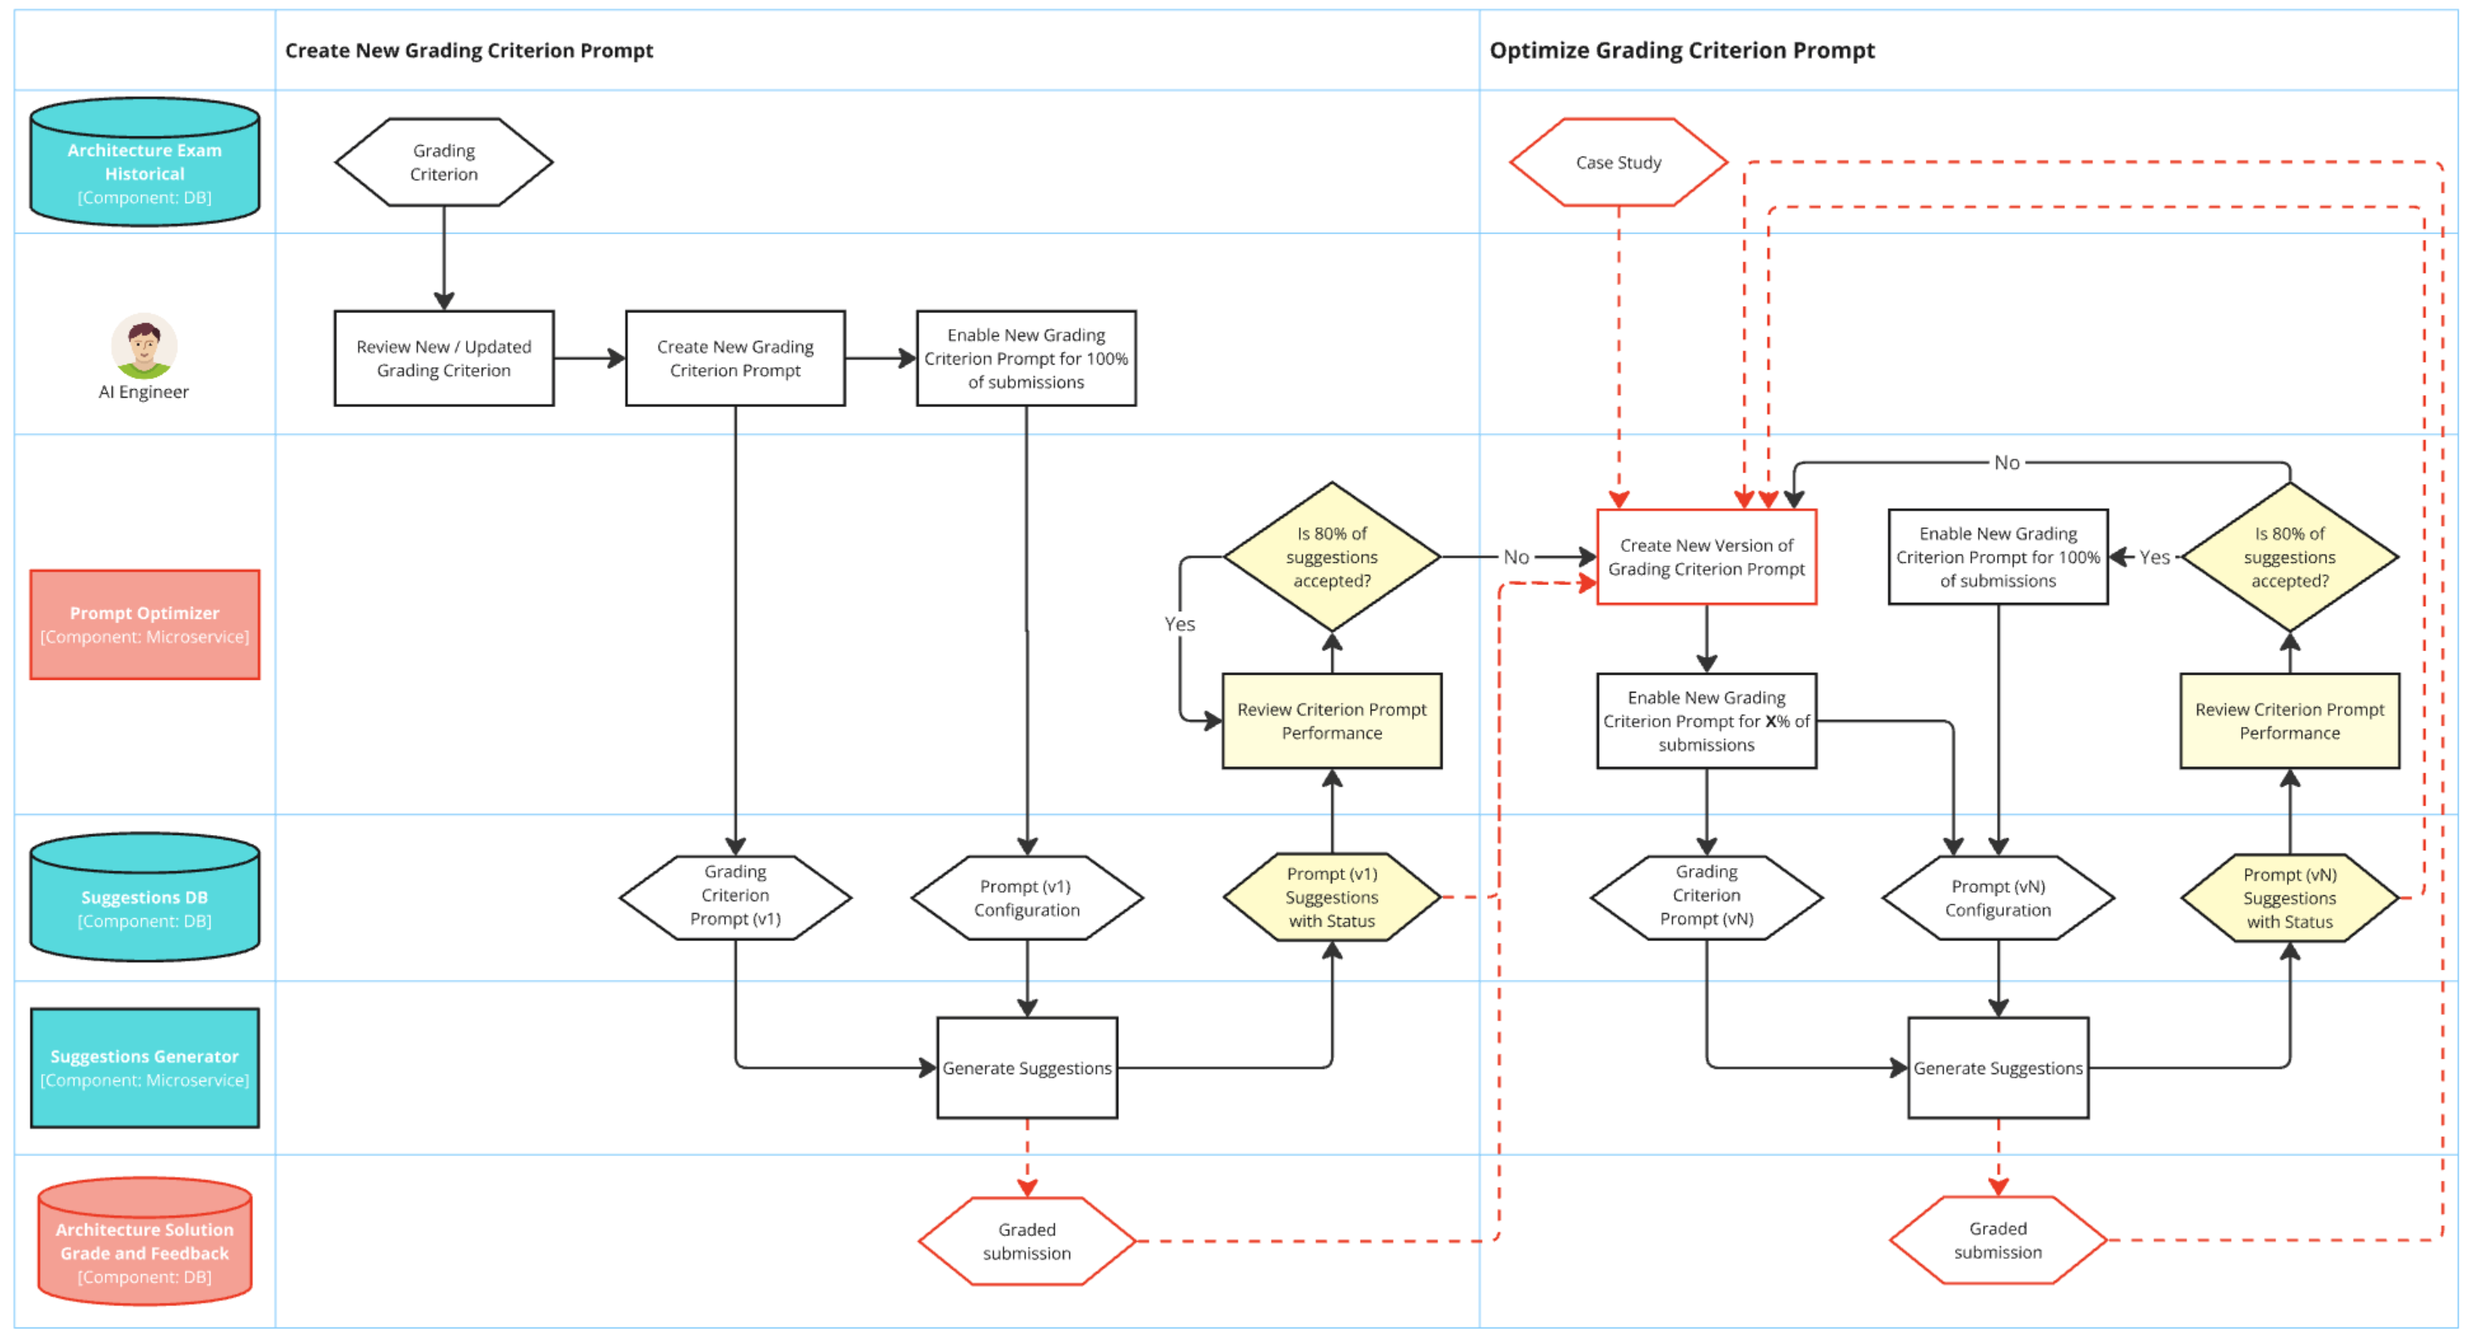
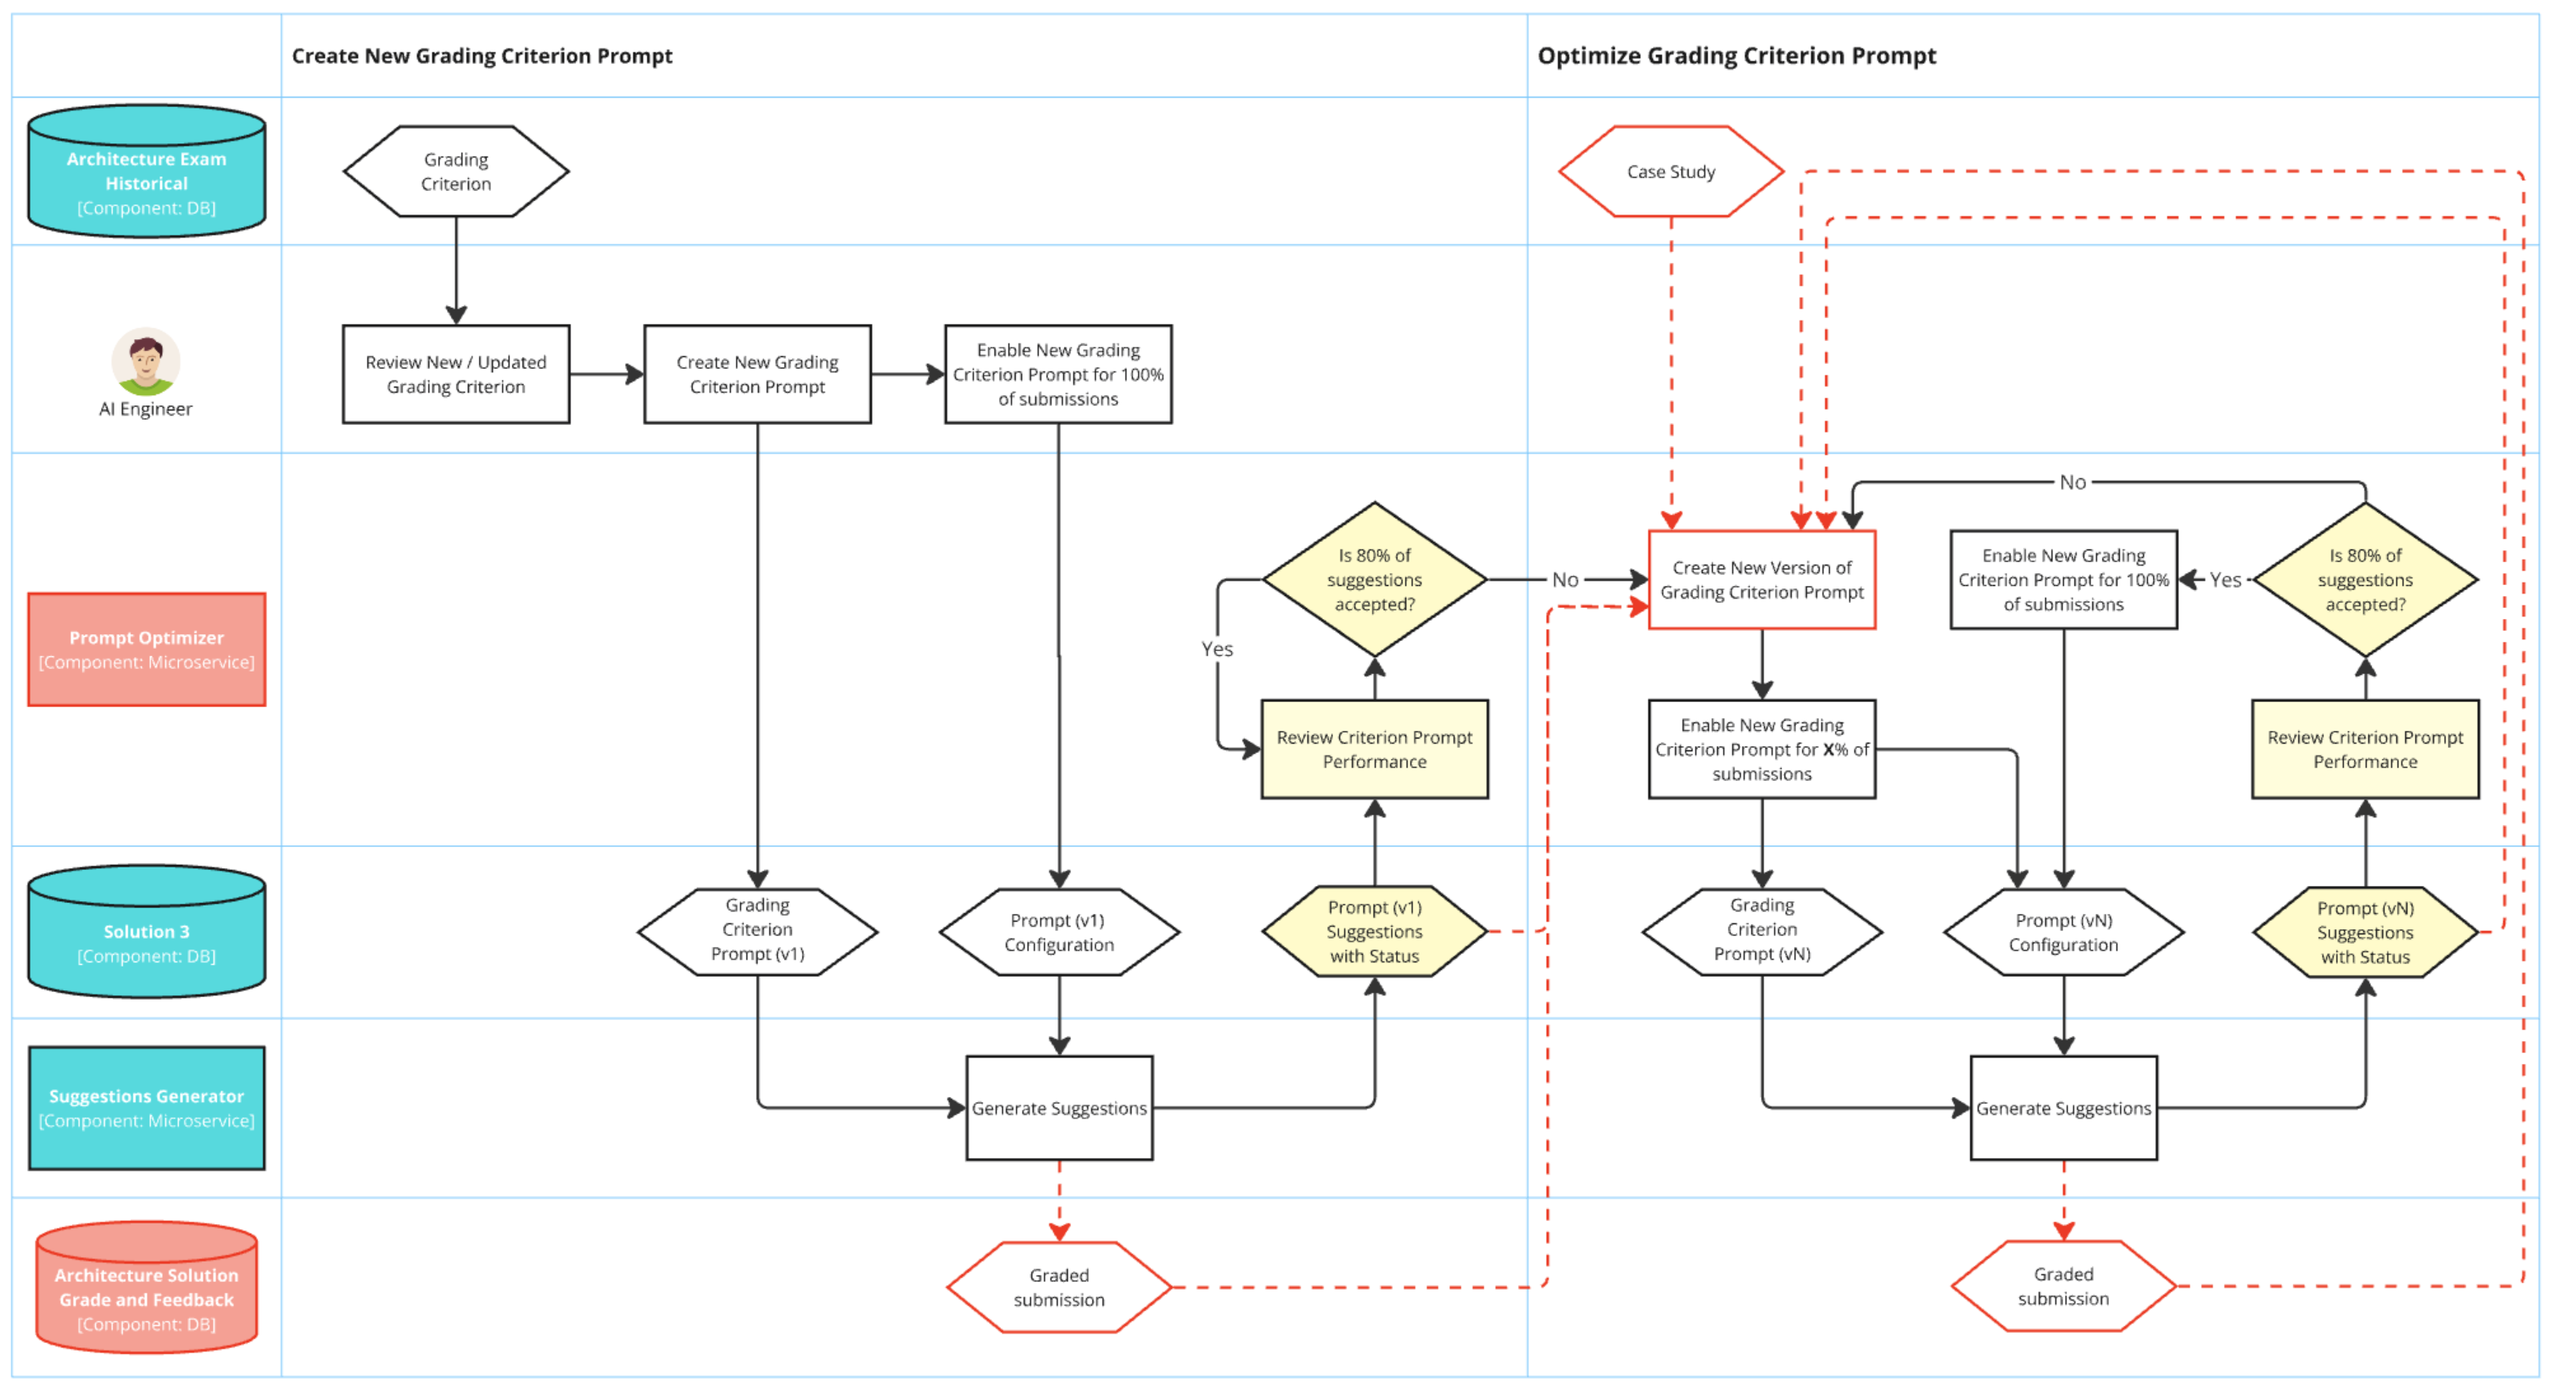
improved solution 3b

diff --git a/README.md b/README.md
@@ -41,7 +41,7 @@
   - [Aptitude Test: Solution 1b - Semantic search](#aptitude-test-solution-1b---semantic-search)
   - [Aptitude Test: Solution 2](#aptitude-test-solution-2)
   - [Architecture Exam: Solution 3a - Direct Prompting](#architecture-exam-solution-3a---direct-prompting)
-  - [Architecture Exam: Solution 3b - Direct Prompting](#architecture-exam-solution-3b---direct-prompting)
+  - [Architecture Exam: Solution 3b - Automatic Prompt Optimization](#architecture-exam-solution-3b---automatic-prompt-optimization)
   - [Architecture Exam: Solution 4](#architecture-exam-solution-4)
   - [Appeal Process, Anomaly Detection and Analytics](#appeal-process-anomaly-detection-and-analytics)
 - [Final Words](#final-words)
@@ -912,10 +912,10 @@ This diagram illustrates the workflow of generating grading and feedback suggest
 
 This workflow integrates AI and human expertise, ensuring the grading process is efficient while maintaining high-quality, personalized feedback for each student. The combination of **vectorized search** for semantic similarity and **LLM-based feedback synthesis** helps enhance grading consistency and precision.
 
-
 ## Aptitude Test: Solution 2
 
 ### Idea
+
 Solution 2 enhances AI-core grading by direct leveraging a Large Language Model (LLM) to generate grading suggestions
 and feedback for short-answer responses. Unlike Solution 1a, which primarily relies on text search to find similar past
 answers, Solution 2 makes AI not only generate meaningful feedback, but *do the grading itself*.
@@ -930,42 +930,44 @@ the AI-generated suggestions, that helps to improve the system over time.
 > (the people, systems, and external entities with which it interacts).*
 
 ![Diagram](future_state/solution_2/context_viewpoint.jpg)
+
 1. Submission & Preprocessing
-   * Candidates submit their short-answer responses via UI
-   * The responses are stored in the Architecture Exam Historical DB
-   * The Answers Preprocessing Microservice clusters similar responses and chooses a representative set of answers
-   examples on a certain question 
+   - Candidates submit their short-answer responses via UI
+   - The responses are stored in the Architecture Exam Historical DB
+   - The Answers Preprocessing Microservice clusters similar responses and chooses a representative set of answers
+   examples on a certain question
 2. AI-Powered Suggestions Generation
-   * The Suggestions Generator retrieves set of answers examples and experts' feedback, injects grading prompts and
+   - The Suggestions Generator retrieves set of answers examples and experts' feedback, injects grading prompts and
    sends them into an LLM
-   * The LLM generates grading suggestions based on context
+   - The LLM generates grading suggestions based on context
 3. Expert Review & Refinement
-   * AI-generated grading suggestions are forwarded to the Expert Grading Space
-   * Experts review, refine, or override the AI’s grading and feedback
-   * Suggestions API Microservice updates the suggestions’ statuses based on expert validation (if suggestion is
+   - AI-generated grading suggestions are forwarded to the Expert Grading Space
+   - Experts review, refine, or override the AI’s grading and feedback
+   - Suggestions API Microservice updates the suggestions’ statuses based on expert validation (if suggestion is
    accepted or not)
 4. AI Oversight & Continuous Learning
-   * AI Engineers use the AI Admin UI to monitor AI-core performance and adjust prompt templates and configs for better
+   - AI Engineers use the AI Admin UI to monitor AI-core performance and adjust prompt templates and configs for better
    performance
-   * Experts and AI engineers can request regeneration of AI-generated suggestions to improve accuracy
-5. Feedback Loop for Optimization 
-   * AI-generated suggestions are evaluated for accuracy, helping refine future grading logic: improve models,
+   - Experts and AI engineers can request regeneration of AI-generated suggestions to improve accuracy
+5. Feedback Loop for Optimization
+   - AI-generated suggestions are evaluated for accuracy, helping refine future grading logic: improve models,
    preprocessing of data and better grading criteria for tasks
-
 
 ### Operational Viewpoint
 
 > *Describes how the system will operate to fulfill the required functionality.*
 
 ![Diagram](future_state/solution_2/operational_viewpoint.jpg)
+
 #### Workflow
+
 The workflow describes an LLM-powered grading system that combines historical answer data, AI-driven suggestions,
 and expert validation to optimize short-answer assessment.
 
 1. The Answers Preprocessing Microservice clusters and organizes historical responses to provide variety of examples to GenAI
 
-2. Suggestions Generator captures submitted answers and – instead of searching for exact past matches 
-(as in Solution 1a) – an LLM processes the answer, analyzing it in context (question, the other answers and their gradings)
+2. Suggestions Generator captures submitted answers and – instead of searching for exact past matches
+(as in Solution 1a) – an LLM processes the answer, analyzing it in context (question, the other answers and their grades)
 
 3. The LLM generates grading suggestions and relevant feedback based on examples of human grading
 
@@ -975,6 +977,7 @@ and expert validation to optimize short-answer assessment.
 set of experts grading and improve AI accuracy
 
 ### Informational Viewpoint
+>
 > *Describes the way that the architecture stores, manipulates, manages, and distributes information.*
 
 ![Diagram](future_state/solution_2/informational_viewpoint.jpg)
@@ -1096,13 +1099,23 @@ The diagram illustrates generating and enhancing the quality of AI-generated gra
 
 This iterative improvement cycle ensures that AI-generated grading suggestions remain high-quality, reliable, and aligned with expert expectations, leading to efficient and accurate candidate evaluations.
 
-## Architecture Exam: Solution 3b - Direct Prompting
+## Architecture Exam: Solution 3b - Automatic Prompt Optimization
 
 ### Idea
 
 The main idea is that **Solution 3a** is already functional, and our goal is to automate the manual tasks performed by the AI Engineer to maintain suggestion quality at the desired level.
 
-We will introduce a new component called the **Prompt Optimizer** to achieve this. This component will track the performance of grading prompts and use an LLM to optimize them. The optimization process will involve analyzing rejected suggestions and comparing them with the correct answers provided by experts. Based on this data, the LLM will automatically refine existing grading prompts to improve future suggestions.
+We are introducing a new component called the **Prompt Optimizer**, designed to implement the **Automatic Prompt Optimization** pattern. This component continuously monitors the performance of grading prompts and utilizes a Large Language Model (LLM) to iteratively refine them.
+
+The optimization process follows a structured feedback loop:
+
+1. **Performance Tracking** – The system collects expert feedback on AI-generated grading suggestions, categorizing them as accepted or rejected.
+2. **Pattern Analysis** – Rejected suggestions are analyzed alongside the corresponding expert-provided corrections to identify weaknesses in the current prompt structure.
+3. **Adaptive Refinement** – The LLM generates improved prompt variations that aim to reduce rejected suggestions while preserving accepted outputs.
+4. **Controlled Deployment** – New prompt versions are gradually introduced, allowing for A/B testing against previous versions to ensure effectiveness.
+5. **Continuous Improvement** – The system dynamically adjusts prompt parameters over time based on real-world grading outcomes, creating an evolving, self-optimizing feedback mechanism.
+
+This approach ensures that grading prompts remain effective and adaptive, leading to more accurate and efficient evaluation processes.
 
 ### Context Viewpoint
 
@@ -1131,6 +1144,8 @@ This updated diagram introduces new elements to automate and optimize the gradin
 ### Operational Viewpoint
 
 > *Describes how the system will operate to fulfill the required functionality.*
+
+#### Automatic Prompt Optimization Process
 
 This diagram illustrates the **workflow for generating and optimizing AI-generated grading suggestions** to ensure high accuracy and expert alignment. The process continuously refines grading prompts based on performance data and expert feedback.
 
@@ -1165,6 +1180,26 @@ This diagram illustrates the **workflow for generating and optimizing AI-generat
    - The process is iterative, meaning prompts are continuously refined and improved to maintain high-quality grading standards.
 
 This **iterative improvement cycle** ensures that AI-generated grading suggestions remain **accurate, reliable, and aligned with expert expectations**, leading to efficient and high-quality candidate evaluations.
+
+#### New Prompt Creation Process
+
+This diagram illustrates a workflow for automatically creating optimized grading criterion prompts using a feedback provided by Experts.
+
+![Diagram](future_state/solution_3b/operational_viewpoint_l2.png)
+
+#### Workflow
+
+1. **Prepare Training Data**
+   - Retrieve **graded submission feedback** from Architecture Exam Historical DB.
+   - Combine **rejected AI suggestions** with expert-corrected feedback.
+   - Cluster rejected suggestions and select the top 5 clusters.
+   - Store the top 5 rejected suggestions with corrected feedback.
+
+2. **Create a New Version of the Grading Criterion Prompt**
+   - Generate text-based critiques using **LLM**.
+   - Compile an optimization prompt with **critiques**.
+   - Execute in LLM to generate 1–3 new prompt versions.
+   - Store new prompt versions (v2–4) for evaluation.
 
 ## Architecture Exam: Solution 4
 
@@ -1208,10 +1243,10 @@ Provided workflow overview only covers the interactions with or within the AI An
 
 3. **LIKE Aptitude Test: Solution 1 Submissions Search** and **LIKE Architecture Exam: Solution 4 Submissions Search** services
    - Preprocess provided submission for text search
-   - Perfrom text search in internal Vector DB of previously graded submissions
+   - Perform text search in internal Vector DB of previously graded submissions
    - Return similar submissions with their grades and feedback.
 
-4. **Anomaly Detection** microservice 
+4. **Anomaly Detection** microservice
    - Searches for similar submissions using **Submissions Search** services
    - Detects significant discrepancies between average grades of similar historical graded submissions and the current one
    - Flags such submissions as anomalies and forwards them to **Expert Admin Space** for later review
@@ -1261,14 +1296,14 @@ This workflow describes the process of Building the dataset that is used to moni
 This workflow describes an AI-assisted detection of anomalies in Expert-provided grades for the Aptitude Test.
 
 1. **Grade Submissions**
-  - **Expert** provides grade and feedback for Candidate's submission
+   - **Expert** provides grade and feedback for Candidate's submission
 
 2. **Find Similar Submissions**
    - **Submissions Search** service vectorizes the submission
    - **Submissions Search** service searches for similar submissions using vector similarity
    - **Submissions Search** service returns similar submissions with grades and feedback
 
-3. **Anomaly Detection** 
+3. **Anomaly Detection**
    - **Anomaly Detection** microservice compares the submission’s grade with historical grades of retrieved similar submissions.
    - **Anomaly Detection** finds anomalies using predefined criteria (e.g., >15% deviation from historical averages. It identifies **both** inflated scores (false approvals) and unduly low scores (false rejections).
    - **Anomaly Detection** forwards the anomalies for a re-validation.
@@ -1278,7 +1313,7 @@ This workflow describes an AI-assisted detection of anomalies in Expert-provided
    - **Designated Expert** reviews submission details, grades and historical comparisons.
    - **Designated Expert** **corrects** (update grade/feedback) or **ignores** (no action) the anomaly.
 
-4. **Anomaly Status Update**
+5. **Anomaly Status Update**
    - **Corrections Capture** microservice records the final status (*Corrected*/*Ignored*) and persists it to the **Performance Metrics DB** for auditing and analysis.
 
 **Appeal Process**
@@ -1293,7 +1328,7 @@ This workflow describes an AI-assisted detection of anomalies in Expert-provided
    - Appeal form is stored for later review by **Appeals App**
 
 2. **Appeal Review**
-   - **Appeals App** notifies **Designated Expert ** about new Appeals.
+   - **Appeals App** notifies **Designated Expert** about new Appeals.
    - **Designated Expert** reviews the submission, grade, feedback and candidate’s justification.
    - **Designated Expert** makes a decision:
      - **Approved (Full/Partial)**: Updates grade/feedback, potentially allowing the candidate to move to the next step in certification process.
@@ -1315,10 +1350,10 @@ This workflow describes an AI-assisted detection of anomalies in Expert-provided
 
 ![Diagram](future_state/solution_5/operational_viewpoint_analytics.png)
 
-#### Analytis Workflow
+#### Analytics Workflow
 
 1. **Capture Data**
-   - Information about submissions, appeal and anomalies, suggestions is presisted by corresponding **Capture** services to **Operational DB** staging area. This area sores raw events for a limited time period.
+   - Information about submissions, appeal and anomalies, suggestions is persisted by corresponding **Capture** services to **Operational DB** staging area. This area sores raw events for a limited time period.
 2. **Calculate Metrics**
    - **Operational Job** aggregates raw data from **Operational DB**, computes performance metrics, updates **Validation Analysis** DB with new data.
 3. **Analyze data**
